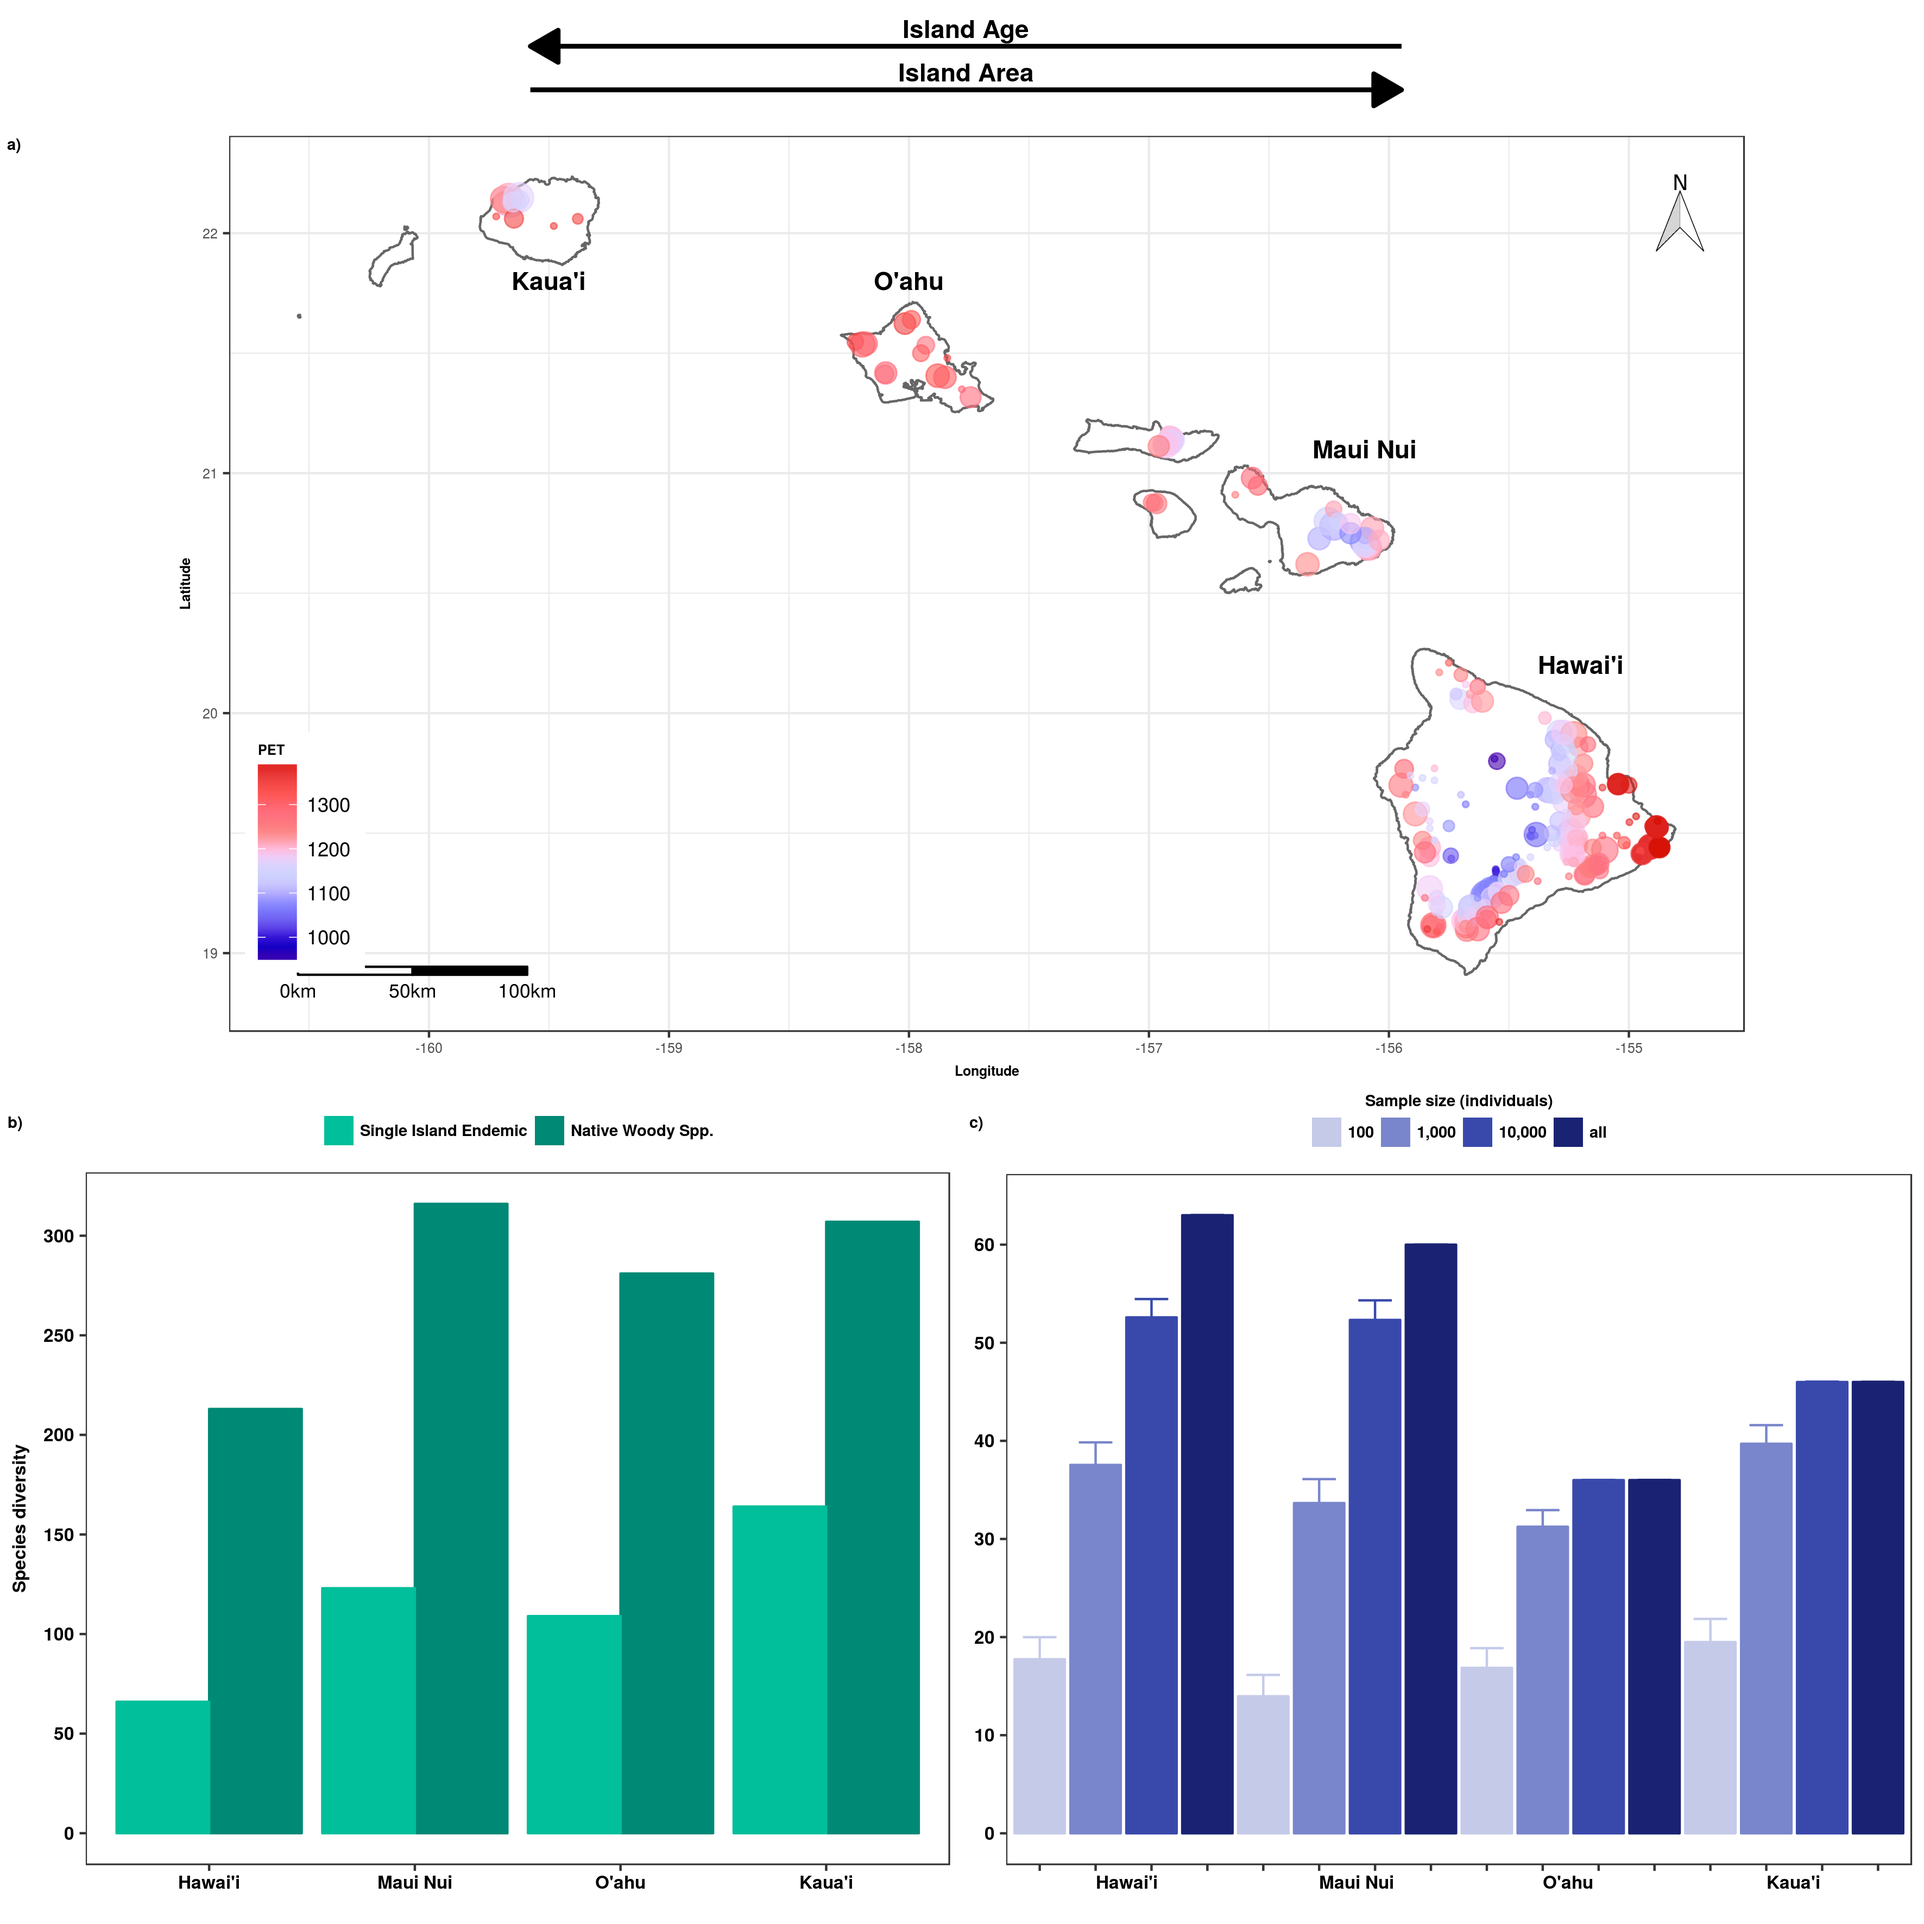
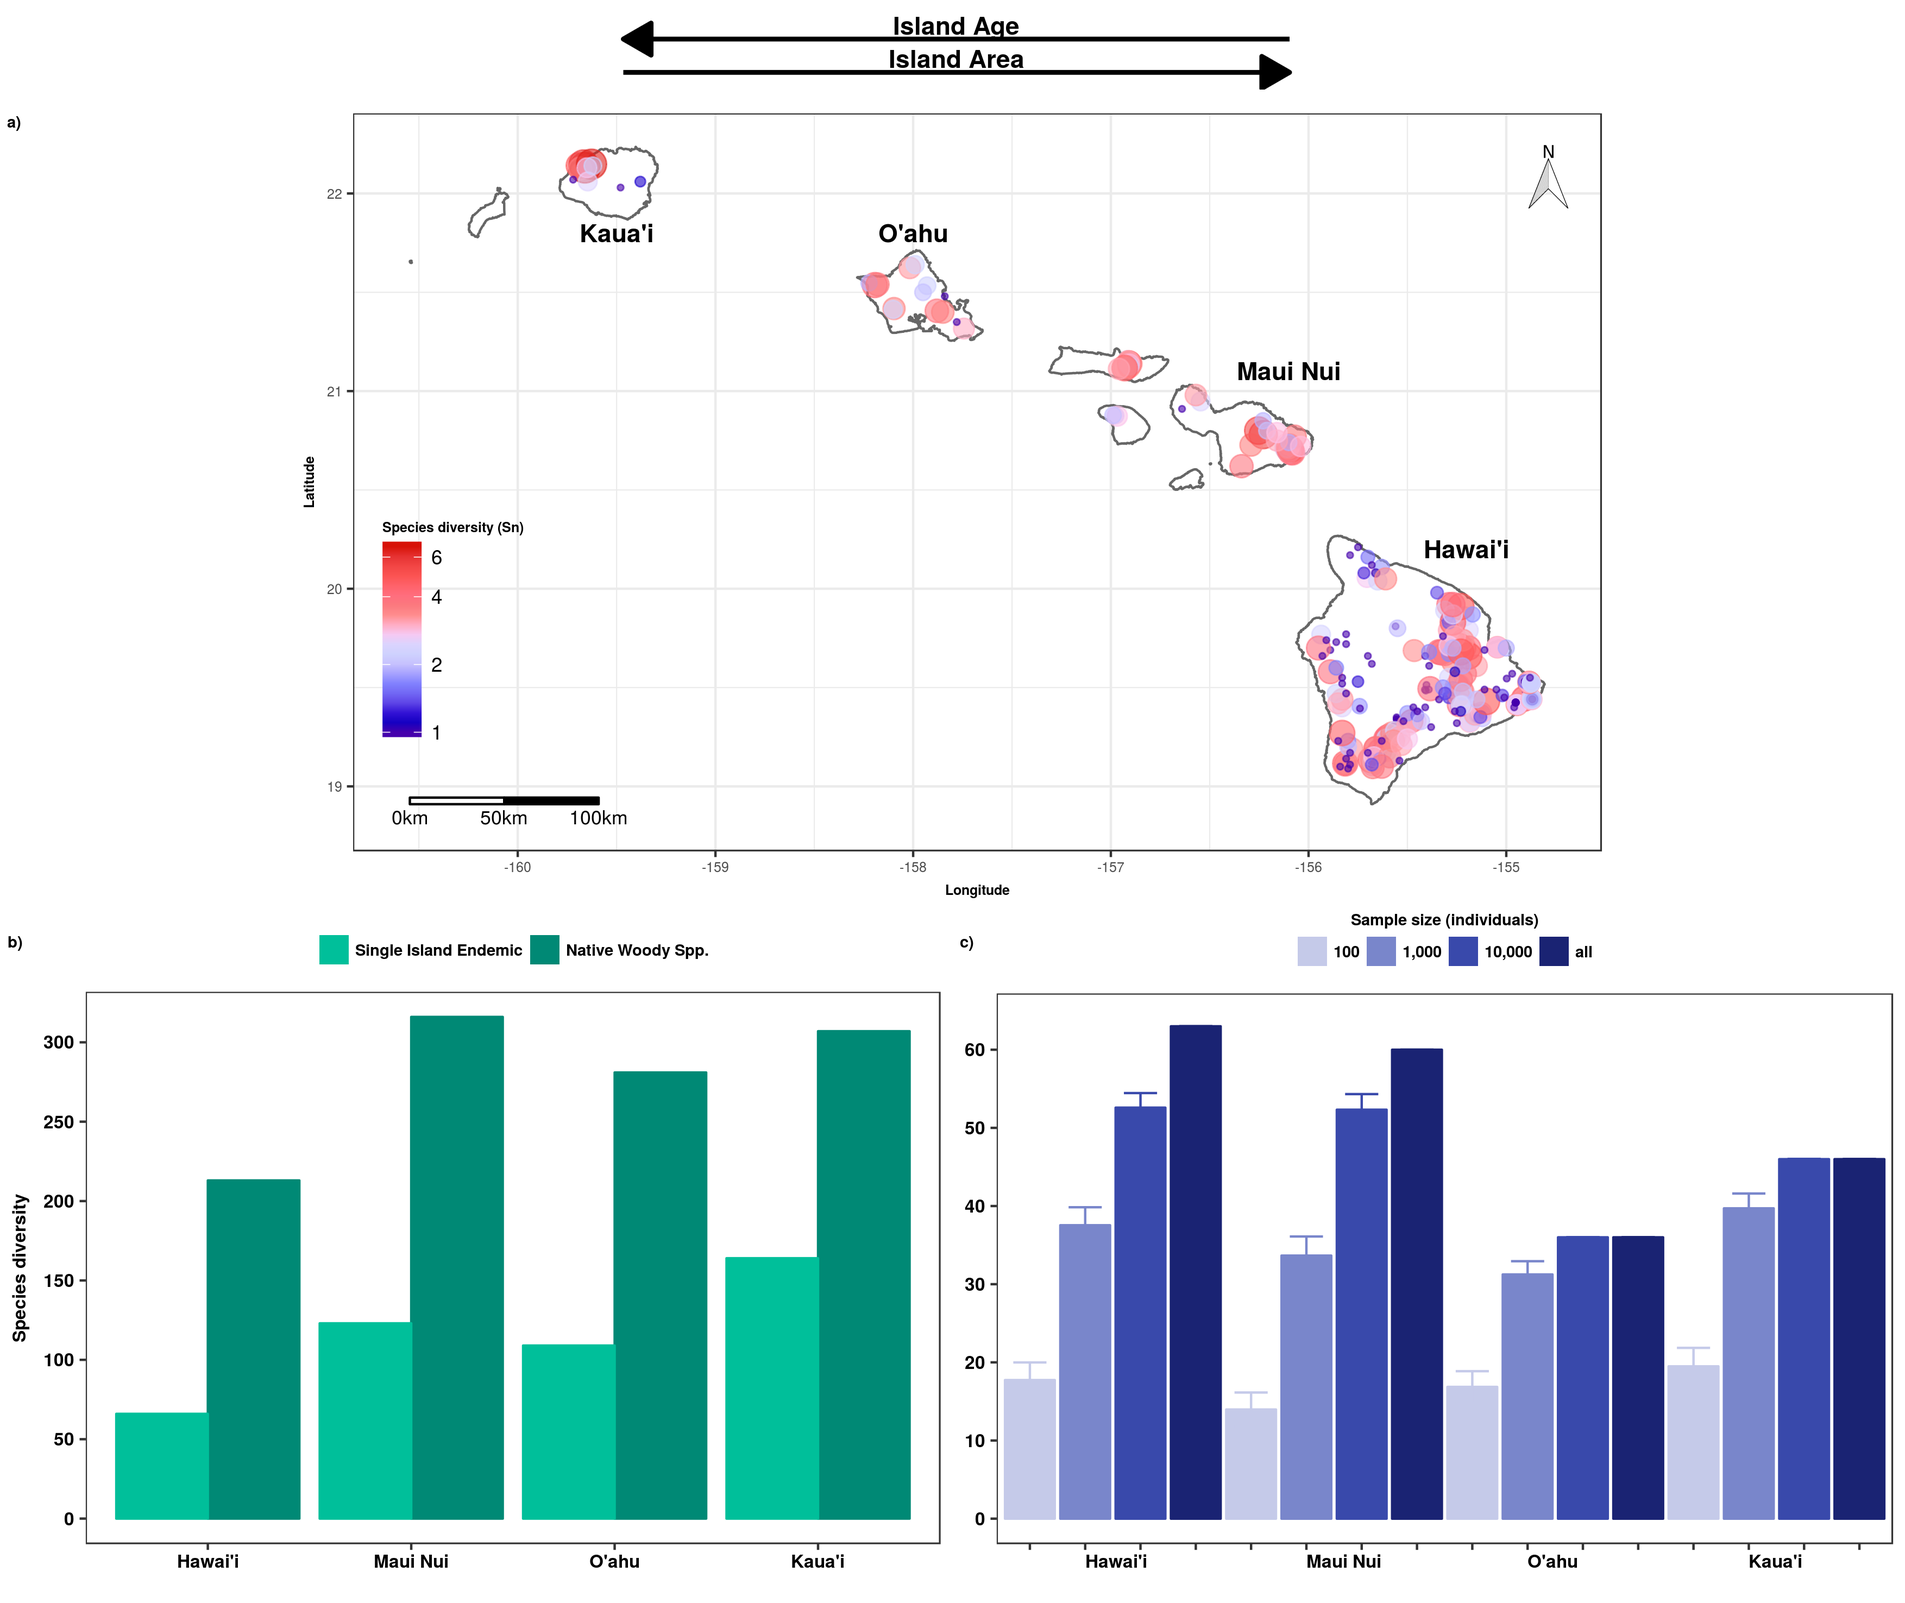
Small updates to new Fig. 1

diff --git a/Hawaii_Diversity_ToDo.md b/Hawaii_Diversity_ToDo.md
@@ -15,6 +15,9 @@ __To-Do__
 - [x] 14) Natives (size class **Big**): Fig. S3  (Hill Numbers)
 - [x] 15) Natives (size class **Big**): beta diversity (Appendix)
 - [x] 16) Natives (size class **Big**): SACs using all data (Fig. S4)
-- [ ] 17) Map of plot locations across Hawaiian Islands: Fig. S1 
-- [x] 18) Adjust species list (PELBAR/MELBAR)  
+- [x] 17) Map of plot locations across Hawaiian Islands: Fig. S1
+- [x] 18) Adjust species list (PELBAR/MELBAR)
+- [] 19) Integrate map with Fig. 1  (how to color/scale points?)  
+- [] 20) Make table summarizing data per island (N of plots, sampled area, PET, etc.)  
+
 
